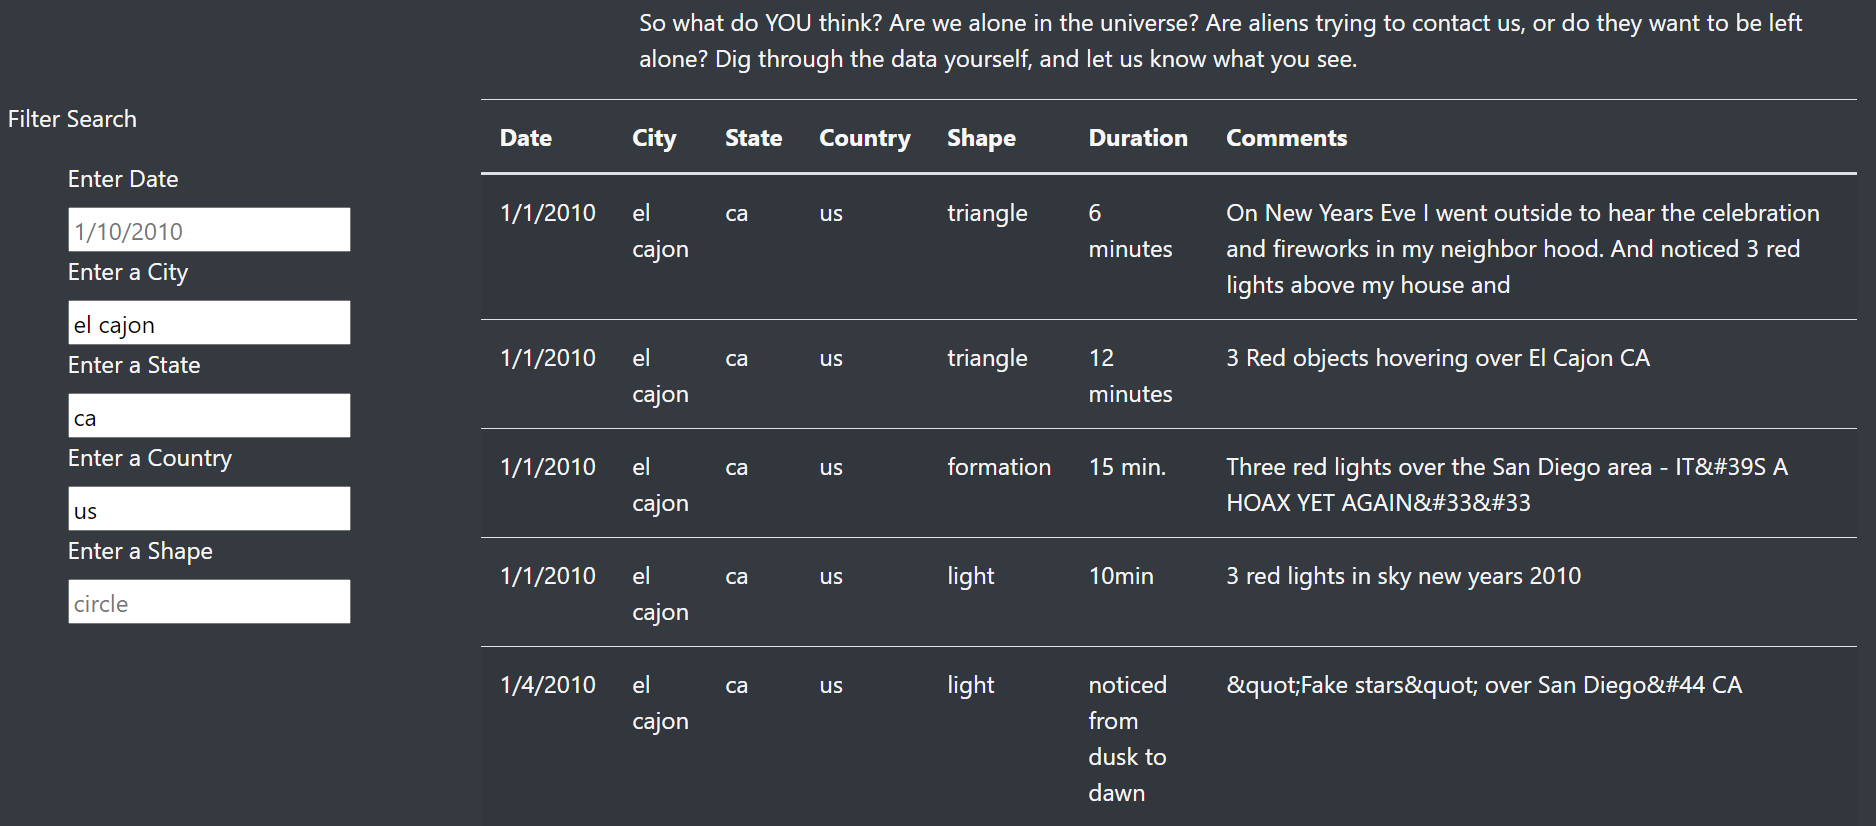
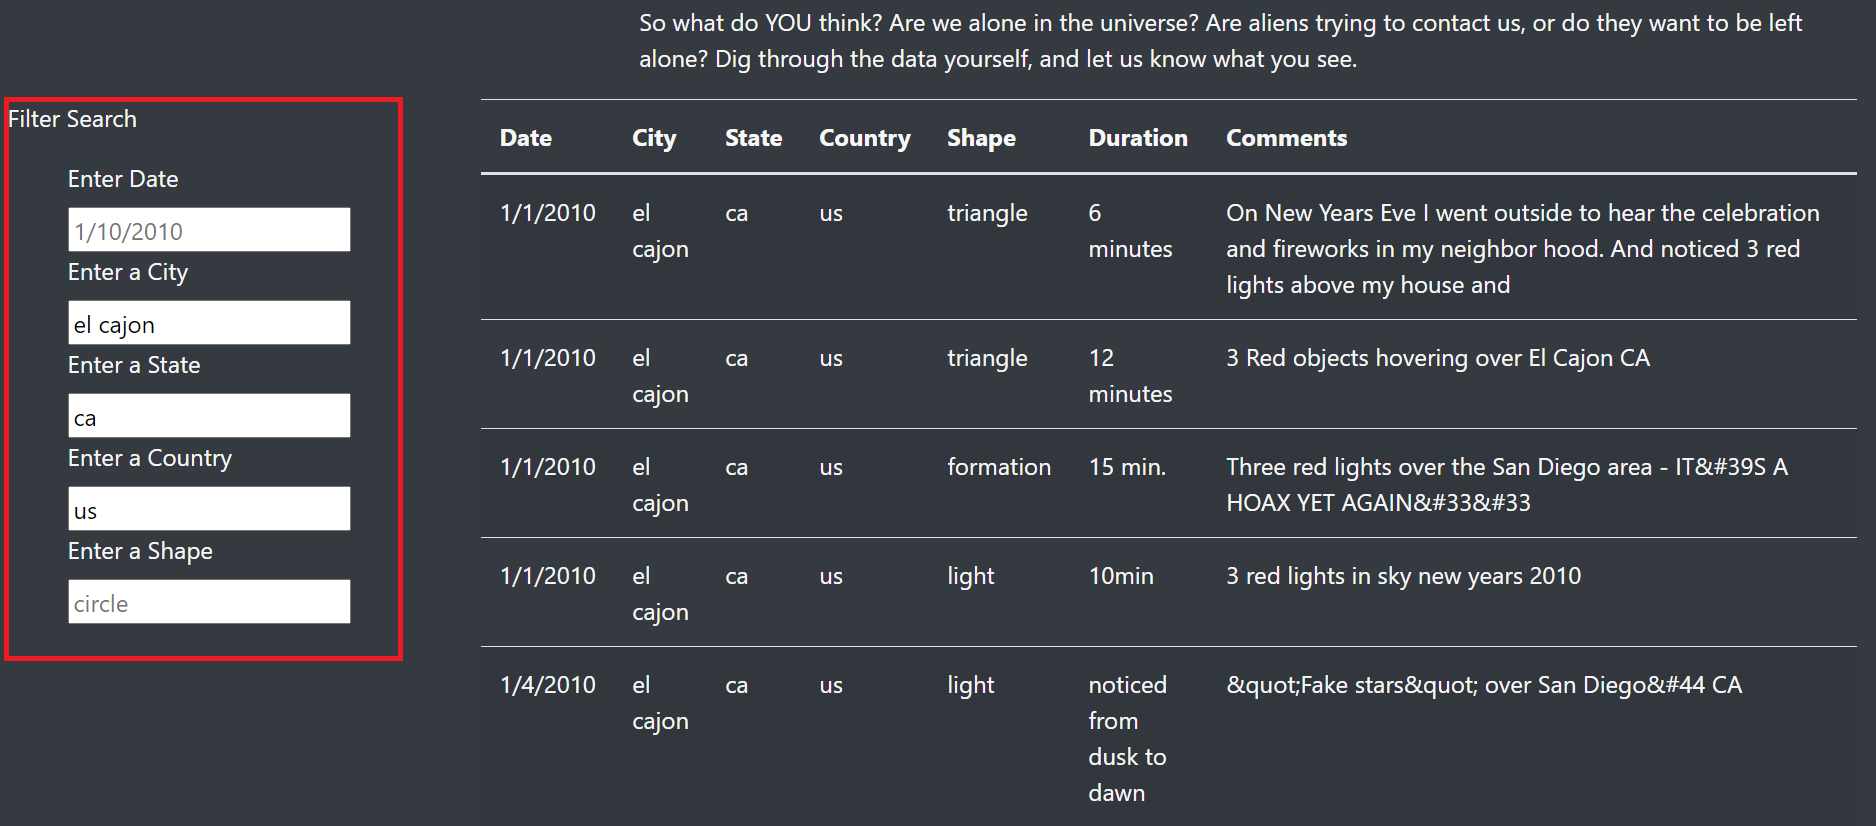
Readme Updates

Changed region(s): [[0.0, 0.0908, 0.2164, 0.1513], [0.0, 0.7869, 0.2164, 0.8172]]

diff --git a/README.md b/README.md
@@ -1,2 +1,24 @@
-# UFOs
-Create webpage using HTML and Javascript for UFO sightings
+# UFO Sightings
+
+## Overview
+
+The purpose of this project is create a webpage using html, javascript and D3 to display the list of UFO sightings. The webpage also has a filter section, that enables users to filter data based on different criteria
+
+## Results
+
+Due to the high volume of UFO sighting data, a section to filter the data has been provided on the webpage as shown in the image below. Users can type in either one or multiple fields to narrow down the search results.
+
+![Comparison](https://github.com/ssathyanath/UFOs/blob/master/Additional_Data/Image_1.PNG)
+
+## Summary
+
+As with any webpage there are certain drawbacks and room for improvements.
+
+### Drawbacks
+
+- The website does not allow for wildcard search. For example, to search for the city "El Cajon", users have to type "El Cajon" in city. Just searching for "Cajon" would not return any results.
+
+### Future Developments
+
+- As stated in the drawback section, including wildcard search would make it more user friendly
+- Since the website is about UFO's, it would be good to include few additional articles regarding the UFO sightings.
